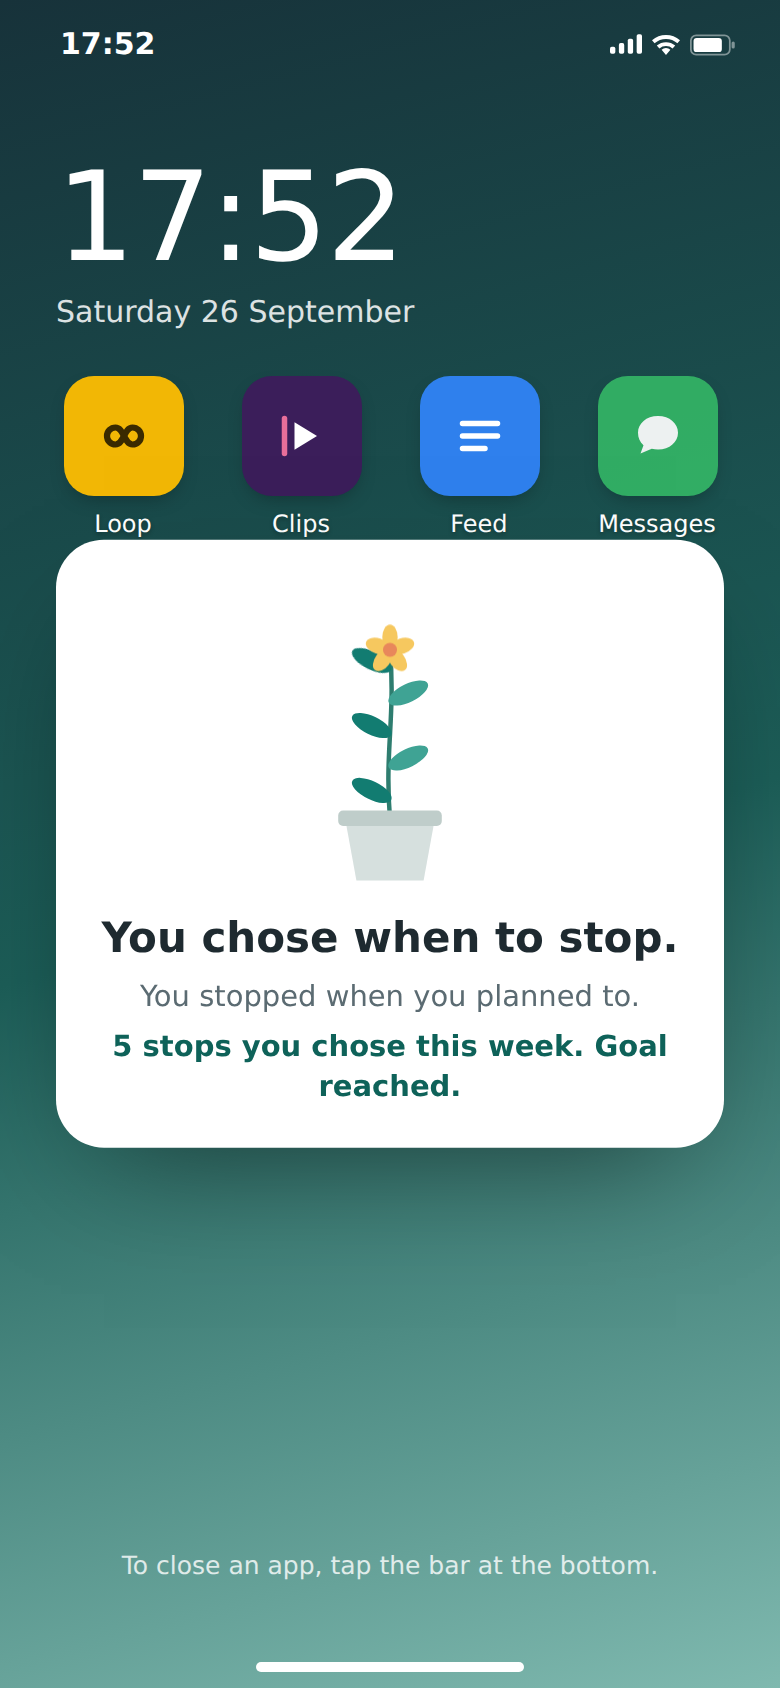
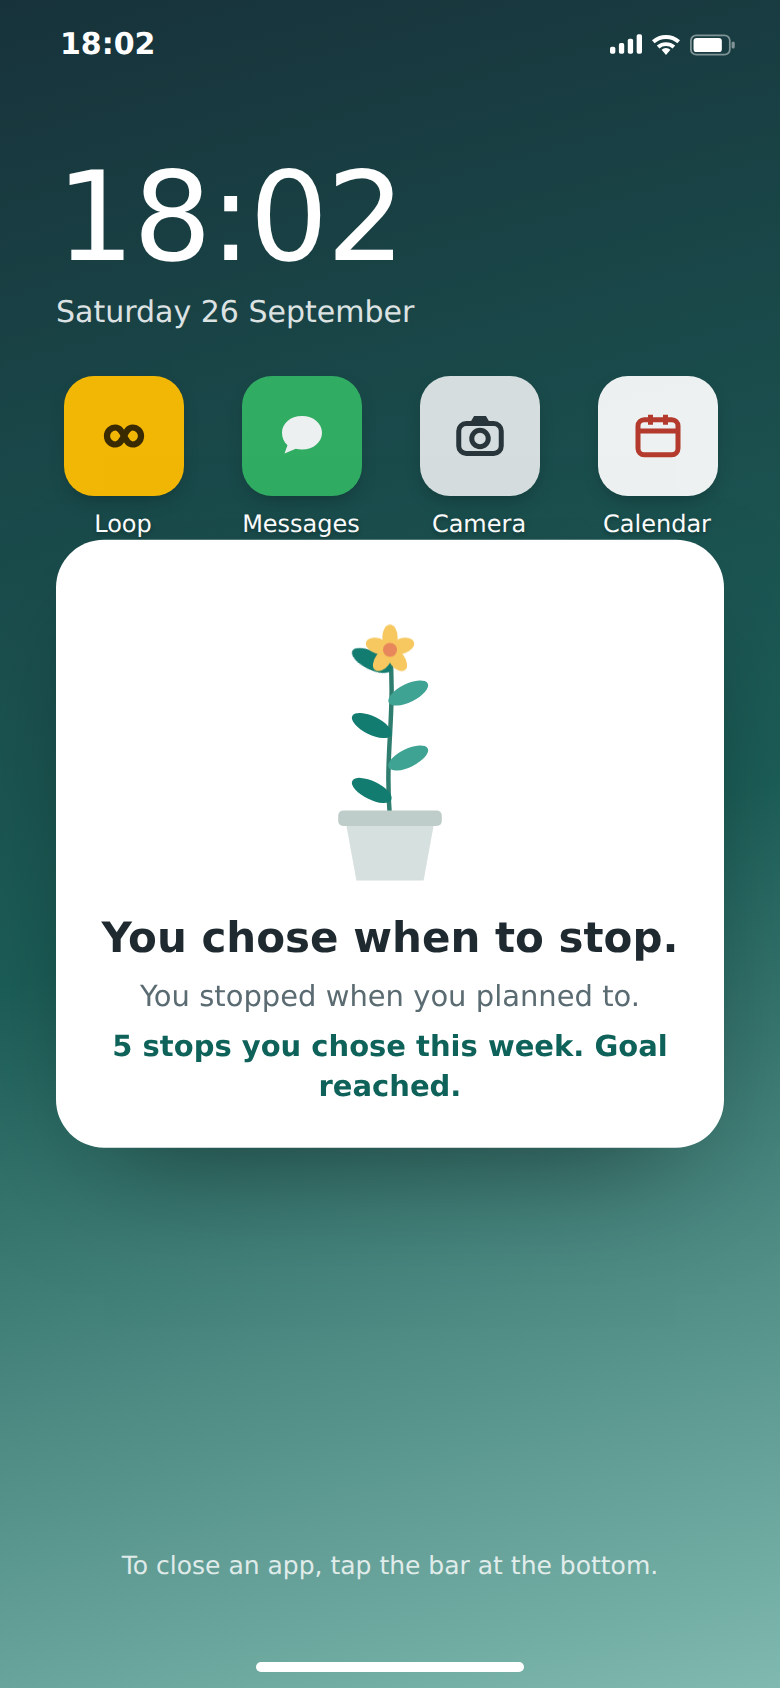
Keep Loop as the only app
Remove Clips and Feed from the home screen, notification controls and code,
so the prototype shows one complete journey: open Loop, choose a purpose,
scroll, check in, stop, plant reward. Screenshots retaken; README and
evidence pack updated, with other feed formats noted as a later step.

Claude-Session: https://claude.ai/code/session_01DMhTpXsU3YFuW6W5HLrjFW

diff --git a/index.html b/index.html
@@ -125,45 +125,6 @@ body.pview .stage{grid-template-columns:minmax(0,1fr); justify-items:center}
 .lp-cap{margin:2px 12px; font-size:14px}
 .lp-more{margin:2px 12px 16px; font-size:13.5px; color:#7A878D}
 
-/* Clips */
-.app-top.clips{background:transparent; justify-content:center; gap:18px; color:#fff; font-weight:650; font-size:16px; pointer-events:none}
-.app-top.clips span{opacity:.6}
-.app-top.clips span.on{opacity:1; border-bottom:2px solid #fff; padding-bottom:2px}
-.feed.clips{top:0; padding-bottom:0; scroll-snap-type:y mandatory; background:#000}
-.clip{height:100%; scroll-snap-align:start; scroll-snap-stop:always; position:relative; color:#fff; overflow:hidden}
-.clip-big{position:absolute; top:40%; left:50%; transform:translate(-50%,-50%); font-size:130px; filter:drop-shadow(0 10px 20px rgba(0,0,0,.3))}
-.clip-meta{position:absolute; left:16px; right:84px; bottom:62px}
-.clip-meta p{margin:4px 0}
-.clip-h{font-weight:700; font-size:15px}
-.clip-t{font-size:15px; line-height:1.35}
-.clip-sound{font-size:13px; opacity:.85}
-.clip-rail{position:absolute; right:12px; bottom:70px; display:flex; flex-direction:column; gap:18px; align-items:center; font-size:12px; font-weight:600}
-.clip-rail button{background:none; border:0; color:#fff; padding:0; display:flex; flex-direction:column; align-items:center; gap:3px; font-size:12px; font-weight:600}
-.clip-rail svg{stroke:#fff}
-.clip-prog{position:absolute; left:0; right:0; bottom:40px; height:3px; background:rgba(255,255,255,.25)}
-.clip-prog span{display:block; height:100%; width:0; background:#fff; animation:prog 9s linear infinite}
-@keyframes prog{to{width:100%}}
-
-/* Feed */
-.fd-word{font-size:22px; font-weight:800; color:#2F80ED; letter-spacing:-.4px}
-.fd-tabs{display:none}
-.fd-tabbar{display:flex; border-bottom:1px solid #EAEFF1; position:sticky; top:0; background:#fff; z-index:1}
-.fd-tabbar span{flex:1; text-align:center; padding:10px 0; font-size:14.5px; color:#6B787E; font-weight:600}
-.fd-tabbar span.on{color:#1E2A30; box-shadow:inset 0 -3px 0 #2F80ED}
-.fd-post{display:flex; gap:10px; padding:12px 14px; border-bottom:1px solid #EEF2F3}
-.fd-post .av{width:40px; height:40px; font-size:16px}
-.fd-body{flex:1; min-width:0}
-.fd-who{margin:0; font-size:14.5px}
-.fd-who span{color:#76848A}
-.fd-t{margin:3px 0 8px; font-size:15px; line-height:1.4}
-.fd-acts{display:flex; justify-content:space-between; max-width:260px; color:#76848A; font-size:13px}
-.fd-acts button{background:none; border:0; color:inherit; display:flex; gap:5px; align-items:center; padding:0; font-size:13px}
-.fd-acts svg{stroke:currentColor}
-.poll{margin:4px 0 10px; display:grid; gap:6px}
-.pl{position:relative; border:1px solid #DDE5E8; border-radius:8px; padding:7px 10px; display:flex; justify-content:space-between; font-size:14px; overflow:hidden}
-.pl i{position:absolute; inset:0 auto 0 0; background:#E3EEFB; z-index:0}
-.pl em,.pl b{position:relative; font-style:normal}
-
 /* Pause layer */
 .bk{z-index:5}
 .bk-full{position:absolute; inset:0; background:#fff; padding:66px 24px 42px; display:flex; flex-direction:column; animation:fadeIn .22s ease-out}
@@ -388,7 +349,7 @@ dialog::backdrop{background:rgba(10,20,22,.45)}
       <div class="row"><span class="rl" id="lblPause">Pause layer</span>
         <div class="segc" role="group" aria-labelledby="lblPause" data-setting="pause">
           <button type="button" data-v="on">On</button><button type="button" data-v="off">Off (baseline)</button></div>
-        <p class="help">Baseline keeps the same apps, feed and home-bar exit but shows no purpose prompt, checkpoint, reward or reflection. Use it to see what Pause adds.</p></div>
+        <p class="help">Baseline keeps the same app, feed and home-bar exit but shows no purpose prompt, checkpoint, reward or reflection. Use it to see what Pause adds.</p></div>
       <div class="row"><span class="rl" id="lblReward">Exit reward</span>
         <div class="segc" role="group" aria-labelledby="lblReward" data-setting="reward">
           <button type="button" data-v="A">A: message</button><button type="button" data-v="B">B: message and growth</button></div>
@@ -414,7 +375,7 @@ dialog::backdrop{background:rgba(10,20,22,.45)}
     <section>
       <h2>Events</h2>
       <div class="row"><span class="rl">Send a notification</span>
-        <div class="btns"><button class="btn" type="button" data-notify="loop">Loop</button><button class="btn" type="button" data-notify="clips">Clips</button><button class="btn" type="button" data-notify="feed">Feed</button></div>
+        <div class="btns"><button class="btn" type="button" data-notify="loop">Loop</button></div>
         <p class="help">Works from the home screen. Tapping it starts a session logged as opened from a notification.</p></div>
       <div class="row"><span class="rl">Interrupt the session</span>
         <div class="btns"><button class="btn" type="button" data-interrupt="call">Incoming call</button><button class="btn" type="button" data-interrupt="class">Class starting</button></div>
@@ -481,8 +442,6 @@ const esc = s => String(s ?? '').replace(/[&<>"']/g, c => ({'&':'&amp;','<':'&lt
 /* ---------------- Content ---------------- */
 const ICONS = {
   loop:  '<svg width="34" height="34" viewBox="0 0 24 24" fill="none" stroke="#3A2A00" stroke-width="2.2" stroke-linecap="round"><path d="M6 12c0-1.7 1.3-3 3-3 3 0 3 6 6 6 1.7 0 3-1.3 3-3s-1.3-3-3-3c-3 0-3 6-6 6-1.7 0-3-1.3-3-3z"/></svg>',
-  clips: '<svg width="30" height="30" viewBox="0 0 24 24"><path d="M9 6.5l9 5.5-9 5.5z" fill="#fff"/><path d="M5 5v14" stroke="#E86F9A" stroke-width="2.2" stroke-linecap="round"/></svg>',
-  feed:  '<svg width="30" height="30" viewBox="0 0 24 24" fill="none" stroke="#fff" stroke-width="2.2" stroke-linecap="round"><path d="M5 7h14M5 12h14M5 17h9"/></svg>',
   messages:'<svg width="30" height="30" viewBox="0 0 24 24" fill="#fff"><path d="M12 4c4.7 0 8 3 8 6.7s-3.3 6.7-8 6.7c-.9 0-1.7-.1-2.5-.3L5 19l1.2-3.3C4.8 14.5 4 12.7 4 10.7 4 7 7.3 4 12 4z"/></svg>',
   camera:'<svg width="30" height="30" viewBox="0 0 24 24" fill="none" stroke="#2A3439" stroke-width="2"><rect x="3.5" y="7" width="17" height="12" rx="3"/><circle cx="12" cy="13" r="3.3"/><path d="M9 7l1.2-2h3.6L15 7"/></svg>',
   calendar:'<svg width="30" height="30" viewBox="0 0 24 24" fill="none" stroke="#C0392B" stroke-width="2"><rect x="4" y="5.5" width="16" height="14" rx="2.5"/><path d="M4 10h16M9 3.5v4M15 3.5v4"/></svg>',
@@ -490,9 +449,7 @@ const ICONS = {
   settings:'<svg width="30" height="30" viewBox="0 0 24 24" fill="none" stroke="#fff" stroke-width="2"><circle cx="12" cy="12" r="3.2"/><path d="M12 3.5v2.3M12 18.2v2.3M3.5 12h2.3M18.2 12h2.3M6 6l1.6 1.6M16.4 16.4L18 18M6 18l1.6-1.6M16.4 7.6L18 6"/></svg>'
 };
 const APPS = {
-  loop:  {name:'Loop',  bg:'#F2B705'},
-  clips: {name:'Clips', bg:'#3B1E5A'},
-  feed:  {name:'Feed',  bg:'#2F80ED'}
+  loop:  {name:'Loop',  bg:'#F2B705'}
 };
 const INERT = [
   {k:'messages', name:'Messages', bg:'#34B566'}, {k:'camera', name:'Camera', bg:'#E6EAEB'},
@@ -505,9 +462,7 @@ const PURPOSES = [
 ];
 const P = Object.fromEntries(PURPOSES.map(p => [p.k, p]));
 const NOTIFS = {
-  loop:  {who:'Loop',  text:'Riya replied to your story'},
-  clips: {who:'Clips', text:'New clip from @chai.and.code'},
-  feed:  {who:'Feed',  text:'Trending near you: evening rain update'}
+  loop:  {who:'Loop',  text:'Riya replied to your story'}
 };
 const LOOP = [
   {h:'meera.eats', e:'🍛', t:'Homemade biryani, attempt three. This one finally worked.', g:['#F6C177','#E07A5F']},
@@ -529,56 +484,13 @@ const LOOP = [
   {h:'isha.sundays', e:'🧺', t:'Sunday reset: laundry, playlist, plan the week.', g:['#E0C3FC','#8EC5FC']},
   {h:'campus.memes', e:'💼', meme:"Case comp deadline in 2 hours.\nTeam: 'let's brainstorm first'", t:'Why are we like this.', g:['#FC5C7D','#6A82FB']}
 ];
-const CLIPS = [
-  {h:'chai.and.code', e:'🫖', t:'Rating every chai stall on campus, part 4', g:['#3E1E68','#E45A84']},
-  {h:'quick.cooks', e:'🍳', t:'60-second breakfast: poha edition', g:['#F7971E','#B24592']},
-  {h:'packlight', e:'🧳', t:'How to pack five days into one backpack', g:['#1D976C','#2C3E50']},
-  {h:'dogs.of.blr', e:'🐶', t:"He heard the word 'walk' from two rooms away", g:['#614385','#516395']},
-  {h:'money.minute', e:'📈', t:'Explaining NPV to my parents in 45 seconds', g:['#0F2027','#2C5364']},
-  {h:'tiny.homes', e:'🏠', t:'180 sq ft studio tour. Everything folds.', g:['#8E2DE2','#4A00E0']},
-  {h:'local.lens', e:'🚆', t:'The 8:14 local, a short documentary', g:['#373B44','#4286F4']},
-  {h:'sheet.tricks', e:'⌨', t:'The spreadsheet shortcut that saved my internship', g:['#134E5E','#71B280']},
-  {h:'street.eats', e:'🌮', t:'Street food tier list, no mercy', g:['#DA4453','#89216B']},
-  {h:'lofi.rain', e:'🎧', t:'Rain and lo-fi for one hour', g:['#2C3E50','#4CA1AF']},
-  {h:'guess.the.song', e:'🎹', t:'Guess the song from the first note', g:['#FF416C','#8E2B4B']},
-  {h:'dance.daily', e:'💃', t:'Learning this routine in 7 days, day 3', g:['#B621FE','#1FD1F9']},
-  {h:'study.with.me', e:'⏳', t:'Study with me: 25 minutes, then a break', g:['#000428','#004E92']},
-  {h:'cat.physics', e:'🐈⬛', t:'This cat learned to open the fridge', g:['#403B4A','#8C8A6E']},
-  {h:'mini.facts', e:'🧠', t:"Octopuses have three hearts. Here's why.", g:['#141E30','#35577D']},
-  {h:'gym.notes', e:'💪', t:'Five mistakes everyone makes on leg day', g:['#232526','#5B6467']}
-];
-const FEED = [
-  {n:'Aditi R', h:'aditi_reads', t:'Hot take: 8 am classes should not exist.'},
-  {n:'City Traffic Desk', h:'traffic_desk', t:'Update from the flyover: yes, still.'},
-  {n:'Karan M', h:'karan_builds', t:'Things nobody tells you about your first internship, a thread (1/7)'},
-  {n:'Neha S', h:'nehaspeaks', t:'Settle this once and for all.', poll:[['Chai',64],['Coffee',36]]},
-  {n:'Dev P', h:'devwrites', t:"What's one app you deleted and never missed?"},
-  {n:'Meghna K', h:'meghna_k', t:'Bookmarking this to read later. (I will not read it later.)'},
-  {n:'Rahul V', h:'rahulv', t:'The best ideas arrive in the shower and leave with the towel.'},
-  {n:'Weather Desk', h:'rain_updates', t:'Light rain expected this evening. Carry an umbrella, not your laptop.'},
-  {n:'Priya N', h:'priya_n', t:'Library wifi at full speed is my love language.'},
-  {n:'Sid', h:'sid_on_markets', t:"Every finance class: 'assume a perfect market.' Every market: no."},
-  {n:'Tara', h:'tara_travels', t:'Booked the cheapest train. Regretting nothing yet.'},
-  {n:'Campus Life', h:'campuslife', t:'Best time to study?', poll:[['Early morning',22],['After dinner',41],['Night before the exam',37]]},
-  {n:'Omkar D', h:'omkar_d', t:'Group chats go quiet at 2 am because everyone is scrolling.'},
-  {n:'Zoya', h:'zoya_writes', t:'Reminder: drink water, text your mom back.'},
-  {n:'Vikram', h:'vik_codes', t:'Spent 3 hours automating a task that takes 4 minutes. Worth it.'},
-  {n:'Ira', h:'ira_reads', t:'Finished a book in one sitting. Forgot how good that feels.'}
-];
 const AV_COLORS = ['#127C71','#E07A5F','#6A82FB','#B24592','#3E8E41','#9D6B3E','#355C7D','#DA4453','#2F80ED','#8E2DE2'];
 const avColor = s => { let h = 0; for (const ch of s) h = (h * 31 + ch.charCodeAt(0)) >>> 0; return AV_COLORS[h % AV_COLORS.length]; };
 const rint = (a, b) => a + Math.floor(Math.random() * (b - a + 1));
-const kfmt = n => n >= 1000 ? (n / 1000).toFixed(n >= 10000 ? 0 : 1) + 'K' : String(n);
 const SV = {
   heart:'<svg width="25" height="25" viewBox="0 0 24 24" fill="none" stroke="currentColor" stroke-width="1.9"><path d="M12 20s-7-4.4-7-10a4 4 0 017-2.6A4 4 0 0119 10c0 5.6-7 10-7 10z"/></svg>',
   comment:'<svg width="24" height="24" viewBox="0 0 24 24" fill="none" stroke="currentColor" stroke-width="1.9"><path d="M20 11.5a8 8 0 01-11.6 7.1L4 20l1.4-4.2A8 8 0 1120 11.5z"/></svg>',
-  send:'<svg width="24" height="24" viewBox="0 0 24 24" fill="none" stroke="currentColor" stroke-width="1.9" stroke-linejoin="round"><path d="M21 3L10 14M21 3l-7 18-4-7-7-4z"/></svg>',
-  repost:'<svg width="18" height="18" viewBox="0 0 24 24" fill="none" stroke="currentColor" stroke-width="1.9" stroke-linecap="round"><path d="M7 7h11l-3-3M17 17H6l3 3"/></svg>',
-  heartS:'<svg width="18" height="18" viewBox="0 0 24 24" fill="none" stroke="currentColor" stroke-width="1.9"><path d="M12 20s-7-4.4-7-10a4 4 0 017-2.6A4 4 0 0119 10c0 5.6-7 10-7 10z"/></svg>',
-  commentS:'<svg width="18" height="18" viewBox="0 0 24 24" fill="none" stroke="currentColor" stroke-width="1.9"><path d="M20 11.5a8 8 0 01-11.6 7.1L4 20l1.4-4.2A8 8 0 1120 11.5z"/></svg>',
-  heartL:'<svg width="32" height="32" viewBox="0 0 24 24" fill="none" stroke="#fff" stroke-width="1.8"><path d="M12 20s-7-4.4-7-10a4 4 0 017-2.6A4 4 0 0119 10c0 5.6-7 10-7 10z"/></svg>',
-  commentL:'<svg width="30" height="30" viewBox="0 0 24 24" fill="none" stroke="#fff" stroke-width="1.8"><path d="M20 11.5a8 8 0 01-11.6 7.1L4 20l1.4-4.2A8 8 0 1120 11.5z"/></svg>',
-  sendL:'<svg width="30" height="30" viewBox="0 0 24 24" fill="none" stroke="#fff" stroke-width="1.8" stroke-linejoin="round"><path d="M21 3L10 14M21 3l-7 18-4-7-7-4z"/></svg>'
+  send:'<svg width="24" height="24" viewBox="0 0 24 24" fill="none" stroke="currentColor" stroke-width="1.9" stroke-linejoin="round"><path d="M21 3L10 14M21 3l-7 18-4-7-7-4z"/></svg>'
 };
 const MARK_SVG = (size=20) => `<svg width="${size}" height="${size}" viewBox="0 0 24 24" fill="none" aria-hidden="true"><circle cx="12" cy="12" r="9.5" stroke="currentColor" stroke-width="2"/><rect x="8.6" y="7.5" width="2.2" height="9" rx="1" fill="currentColor"/><rect x="13.2" y="7.5" width="2.2" height="9" rx="1" fill="currentColor"/></svg>`;
 const mark = () => `<div class="mark">${MARK_SVG(18)}<span>Pause</span></div>`;
@@ -627,8 +539,6 @@ function updateChrome(){
   const s = S.screen, c = S.cur, app = c && c.app;
   let light = false;
   if (s === 'home' || s === 'call') light = true;
-  else if (s === 'app') light = app === 'clips';
-  else if (s === 'purpose') light = app === 'clips' || (app === 'feed' && !c.built);
   el.screen.classList.toggle('chrome-light', light);
   el.barLabel.classList.toggle('on', s === 'app' && !!c && !(S.week.bar || {})[c.condition]);
 }
@@ -645,7 +555,7 @@ function buildHome(){
   $('#appGrid').addEventListener('click', e => {
     const b = e.target.closest('button'); if (!b) return;
     if (b.dataset.open) startFlow(b.dataset.open, 'tap');
-    else toast('Only Loop, Clips and Feed open in this test.');
+    else toast('Only Loop opens in this test.');
   });
   const d = new Date();
   $('#wDate').textContent = d.toLocaleDateString('en-IN', {weekday:'long', day:'numeric', month:'long'});
@@ -1000,51 +910,30 @@ function nextItem(){
 }
 function buildApp(app){
   const c = S.cur; c.built = true;
-  FS.app = app; FS.pool = app === 'loop' ? LOOP : app === 'clips' ? CLIPS : FEED; FS.order = shuffle(FS.pool); FS.idx = 0;
+  FS.app = app; FS.pool = LOOP; FS.order = shuffle(FS.pool); FS.idx = 0;
   el.appTop.style.display = ''; el.feed.style.display = '';
   el.appTop.className = 'app-top ' + app;
   el.feed.className = 'feed ' + app;
   el.feed.scrollTop = 0;
-  if (app === 'loop'){
-    el.appTop.innerHTML = `<span class="lp-word">loop</span><span class="top-icons">${SV.heart}${SV.send}</span>`;
-    const names = ['Your story', 'meera', 'arjun', 'riya', 'kabir', 'sana', 'isha'];
-    el.feed.innerHTML = `<div class="stories">${names.map(n => `<span class="story"><span class="ring"><span style="background:${avColor(n)}">${n[0].toUpperCase()}</span></span>${n}</span>`).join('')}</div>`;
-  } else if (app === 'clips'){
-    el.appTop.innerHTML = `<span>Following</span><span class="on">For you</span>`;
-    el.feed.innerHTML = '';
-  } else {
-    el.appTop.innerHTML = `<span class="fd-word">Feed</span><span class="top-icons">${SV.send}</span>`;
-    el.feed.innerHTML = `<div class="fd-tabbar"><span class="on">For you</span><span>Following</span></div>`;
-  }
-  appendItems(app === 'clips' ? 4 : 6);
+  el.appTop.innerHTML = `<span class="lp-word">loop</span><span class="top-icons">${SV.heart}${SV.send}</span>`;
+  const names = ['Your story', 'meera', 'arjun', 'riya', 'kabir', 'sana', 'isha'];
+  el.feed.innerHTML = `<div class="stories">${names.map(n => `<span class="story"><span class="ring"><span style="background:${avColor(n)}">${n[0].toUpperCase()}</span></span>${n}</span>`).join('')}</div>`;
+  appendItems(6);
 }
 function appendItems(n){
   let html = '';
   for (let i = 0; i < n; i++){
     const p = nextItem();
-    if (FS.app === 'loop'){
-      html += `<article class="lp-post"><header><span class="av" style="background:${avColor(p.h)}">${p.h[0].toUpperCase()}</span><span class="lp-h">${p.h}</span><span class="lp-dots" aria-hidden="true">•••</span></header>
+    html += `<article class="lp-post"><header><span class="av" style="background:${avColor(p.h)}">${p.h[0].toUpperCase()}</span><span class="lp-h">${p.h}</span><span class="lp-dots" aria-hidden="true">•••</span></header>
         <div class="lp-img${p.meme ? ' has-meme' : ''}" style="background:linear-gradient(135deg,${p.g[0]},${p.g[1]})">${p.meme ? `<p class="meme">${esc(p.meme)}</p>` : ''}<span class="big" aria-hidden="true">${p.e}</span></div>
         <div class="acts"><button class="like" type="button" aria-label="Like">${SV.heart}</button><button type="button" aria-label="Comment">${SV.comment}</button><button type="button" aria-label="Share">${SV.send}</button></div>
         <p class="lp-likes">${rint(40, 4800).toLocaleString('en-IN')} likes</p><p class="lp-cap"><b>${p.h}</b> ${esc(p.t)}</p><p class="lp-more">View all ${rint(3, 180)} comments</p></article>`;
-    } else if (FS.app === 'clips'){
-      html += `<section class="clip" style="background:linear-gradient(165deg,${p.g[0]},${p.g[1]})"><span class="clip-big" aria-hidden="true">${p.e}</span>
-        <div class="clip-meta"><p class="clip-h">@${p.h}</p><p class="clip-t">${esc(p.t)}</p><p class="clip-sound">♫ original audio</p></div>
-        <div class="clip-rail"><button class="like" type="button" aria-label="Like">${SV.heartL}<span>${kfmt(rint(1200, 98000))}</span></button><button type="button" aria-label="Comments">${SV.commentL}<span>${kfmt(rint(40, 3200))}</span></button><button type="button" aria-label="Share">${SV.sendL}<span>Share</span></button></div>
-        <div class="clip-prog"><span></span></div></section>`;
-    } else {
-      const poll = p.poll ? `<div class="poll">${p.poll.map(([o, v]) => `<div class="pl"><i style="width:${v}%"></i><em>${o}</em><b>${v}%</b></div>`).join('')}</div>` : '';
-      const ago = ['2m', '9m', '14m', '38m', '1h', '2h', '3h', '5h'][rint(0, 7)];
-      html += `<article class="fd-post"><span class="av" style="background:${avColor(p.h)}">${p.n[0]}</span><div class="fd-body">
-        <p class="fd-who"><b>${esc(p.n)}</b> <span>@${p.h} · ${ago}</span></p><p class="fd-t">${esc(p.t)}</p>${poll}
-        <div class="fd-acts"><button type="button" aria-label="Reply">${SV.commentS}${rint(2, 90)}</button><button type="button" aria-label="Repost">${SV.repost}${rint(1, 400)}</button><button class="like" type="button" aria-label="Like">${SV.heartS}${rint(5, 2400)}</button></div></div></article>`;
-    }
   }
   el.feed.insertAdjacentHTML('beforeend', html);
 }
 el.feed.addEventListener('scroll', () => {
   if (S.screen !== 'app') return;
-  if (el.feed.scrollTop + el.feed.clientHeight > el.feed.scrollHeight - 900) appendItems(FS.app === 'clips' ? 3 : 5);
+  if (el.feed.scrollTop + el.feed.clientHeight > el.feed.scrollHeight - 900) appendItems(5);
 }, {passive:true});
 el.feed.addEventListener('click', e => { const b = e.target.closest('.like'); if (b) b.classList.toggle('on'); });
 
@@ -1099,7 +988,7 @@ const pLabel = k => (P[k] ? P[k].label : k);
 function renderWatch(){
   const pid = S.settings.pid, rows = S.log.filter(r => r.participant_id === pid && r.end_type !== 'unknown' && r.condition !== 'baseline');
   const box = $('#watch');
-  if (!rows.length){ box.innerHTML = `<p class="empty">No sessions yet for ${esc(pid)}. Ask them to open Loop, Clips or Feed.</p>`; return; }
+  if (!rows.length){ box.innerHTML = `<p class="empty">No sessions yet for ${esc(pid)}. Ask them to open Loop.</p>`; return; }
   const vals = rows.map(r => +r.purpose_decision_ms || 0);
   const max = Math.max(4000, ...vals);
   box.innerHTML = `<ol class="watch">${rows.map((r, i) => {

diff --git a/presentation/evidence.md b/presentation/evidence.md
@@ -24,7 +24,7 @@ All in `presentation/screenshots/`, captured from the current prototype at phone
 
 | File | Shows | Prototype |
 |---|---|---|
-| `01-home.png` | Simulated home screen with Loop, Clips and Feed | Context |
+| `01-home.png` | Simulated home screen; Loop is the only app that opens | Context |
 | `02-purpose-first-use-intro.png` | First use: one-line explanation of Pause, then "What brings you here?" | 1 |
 | `03-purpose-break-reminder-on.png` | Purpose chosen, reminder switched on, one "Open Loop" button | 1 |
 | `04-feed-first-use-finish-label.png` | Feed with the purpose pill; home bar labelled "Finish session" on first use | 1 |
@@ -32,8 +32,8 @@ All in `presentation/screenshots/`, captured from the current prototype at phone
 | `06-change-purpose.png` | Change my purpose, with the elapsed session time kept | 1 |
 | `07-home-ack-A-planned.png` | Reward A on the home screen: "You chose when to stop." | 2 |
 | `08-purpose-later-use.png` | Purpose screen after the first use, without the explanation | 1 |
-| `09-feed-clips.png` | Clips, the full-screen video feed | Context |
-| `10-declined-toast.png` | "I don't need Clips right now" returns home with a short message | 1 |
+| `09-feed-loop-scrolled.png` | Loop feed further down, with the purpose pill still visible | 1 |
+| `10-declined-toast.png` | "I don't need Loop right now" returns home with a short message | 1 |
 | `11-home-ack-B-plant-first-stop.png` | Reward B after the first chosen stop | 2 |
 | `12-home-ack-B-plant-4-stops.png` | Reward B after four chosen stops | 2 |
 | `13-home-ack-B-goal-reached.png` | Reward B with an optional goal of 5 reached | 2 |
@@ -146,6 +146,7 @@ participants.
 | v4 → v5 | In-app reflection off by default; asked after the task instead | Keeps the exit short and measures both conditions the same way |
 | v4 → v5 | Pause explained once on first use; home bar labelled "Finish session" in each condition's first session | A simulated phone's tappable bar isn't obviously an exit |
 | v5 | Reminder switched on by default (10 minutes); participants can switch it off | So every participant reaches the reminder screen; a default is a nudge, so it stays the same for everyone |
+| v5 | One app (Loop) instead of three; Clips and Feed removed | One complete journey (open Loop → choose purpose → scroll → check-in → stop → plant) shows both prototypes without extra choices |
 
 ### After the pilot
 
@@ -200,6 +201,10 @@ changes habits.
 | **2. Iterate** | Change only what the pilot supports; re-test with 3–4 new participants | Revised prototype, "Changes after testing" table | Whether the fixes worked |
 | **3. Real-device prototype** | Trigger Pause when a chosen app opens. On iOS: a Shortcuts "App is opened" automation (the approach one sec uses), or the Screen Time API (FamilyControls, ManagedSettings, DeviceActivity). On Android: UsageStatsManager, or an AccessibilityService that detects the launch and shows an overlay | Installable prototype | Whether the flow works outside the lab |
 | **4. Field study** | 1 baseline week, then 1–2 weeks with Pause, on participants' own phones | Opens and session length from the OS, plus a short daily "worthwhile / in control" check | Whether unplanned scrolling actually goes down |
+
+**Other scrolling formats:** the pilot uses one image feed (Loop). Short-video and text
+feeds, where the reminder and exit may behave differently, are a later step once the
+single-app journey works.
 
 **Principles that stay fixed:** no blocking or hard limits, continuing is never
 penalised, no shaming language, data stays with the participant unless they consent

diff --git a/README.md b/README.md
@@ -15,6 +15,10 @@ The two interventions under test:
    "You chose when to stop." with no tap needed. Variant A is the message only;
    variant B adds a plant that grows a leaf for each stop you chose.
 
+The prototype has one app, Loop, so there is one complete journey: open Loop → choose
+purpose → scroll → check-in → stop → plant reward. Other scrolling formats (short
+video, text feeds) are a possible later step.
+
 Each screen asks one question and has one obvious next action. The first purpose
 screen explains Pause once, and the home bar is labelled "Finish session" during the
 first session in each condition.
